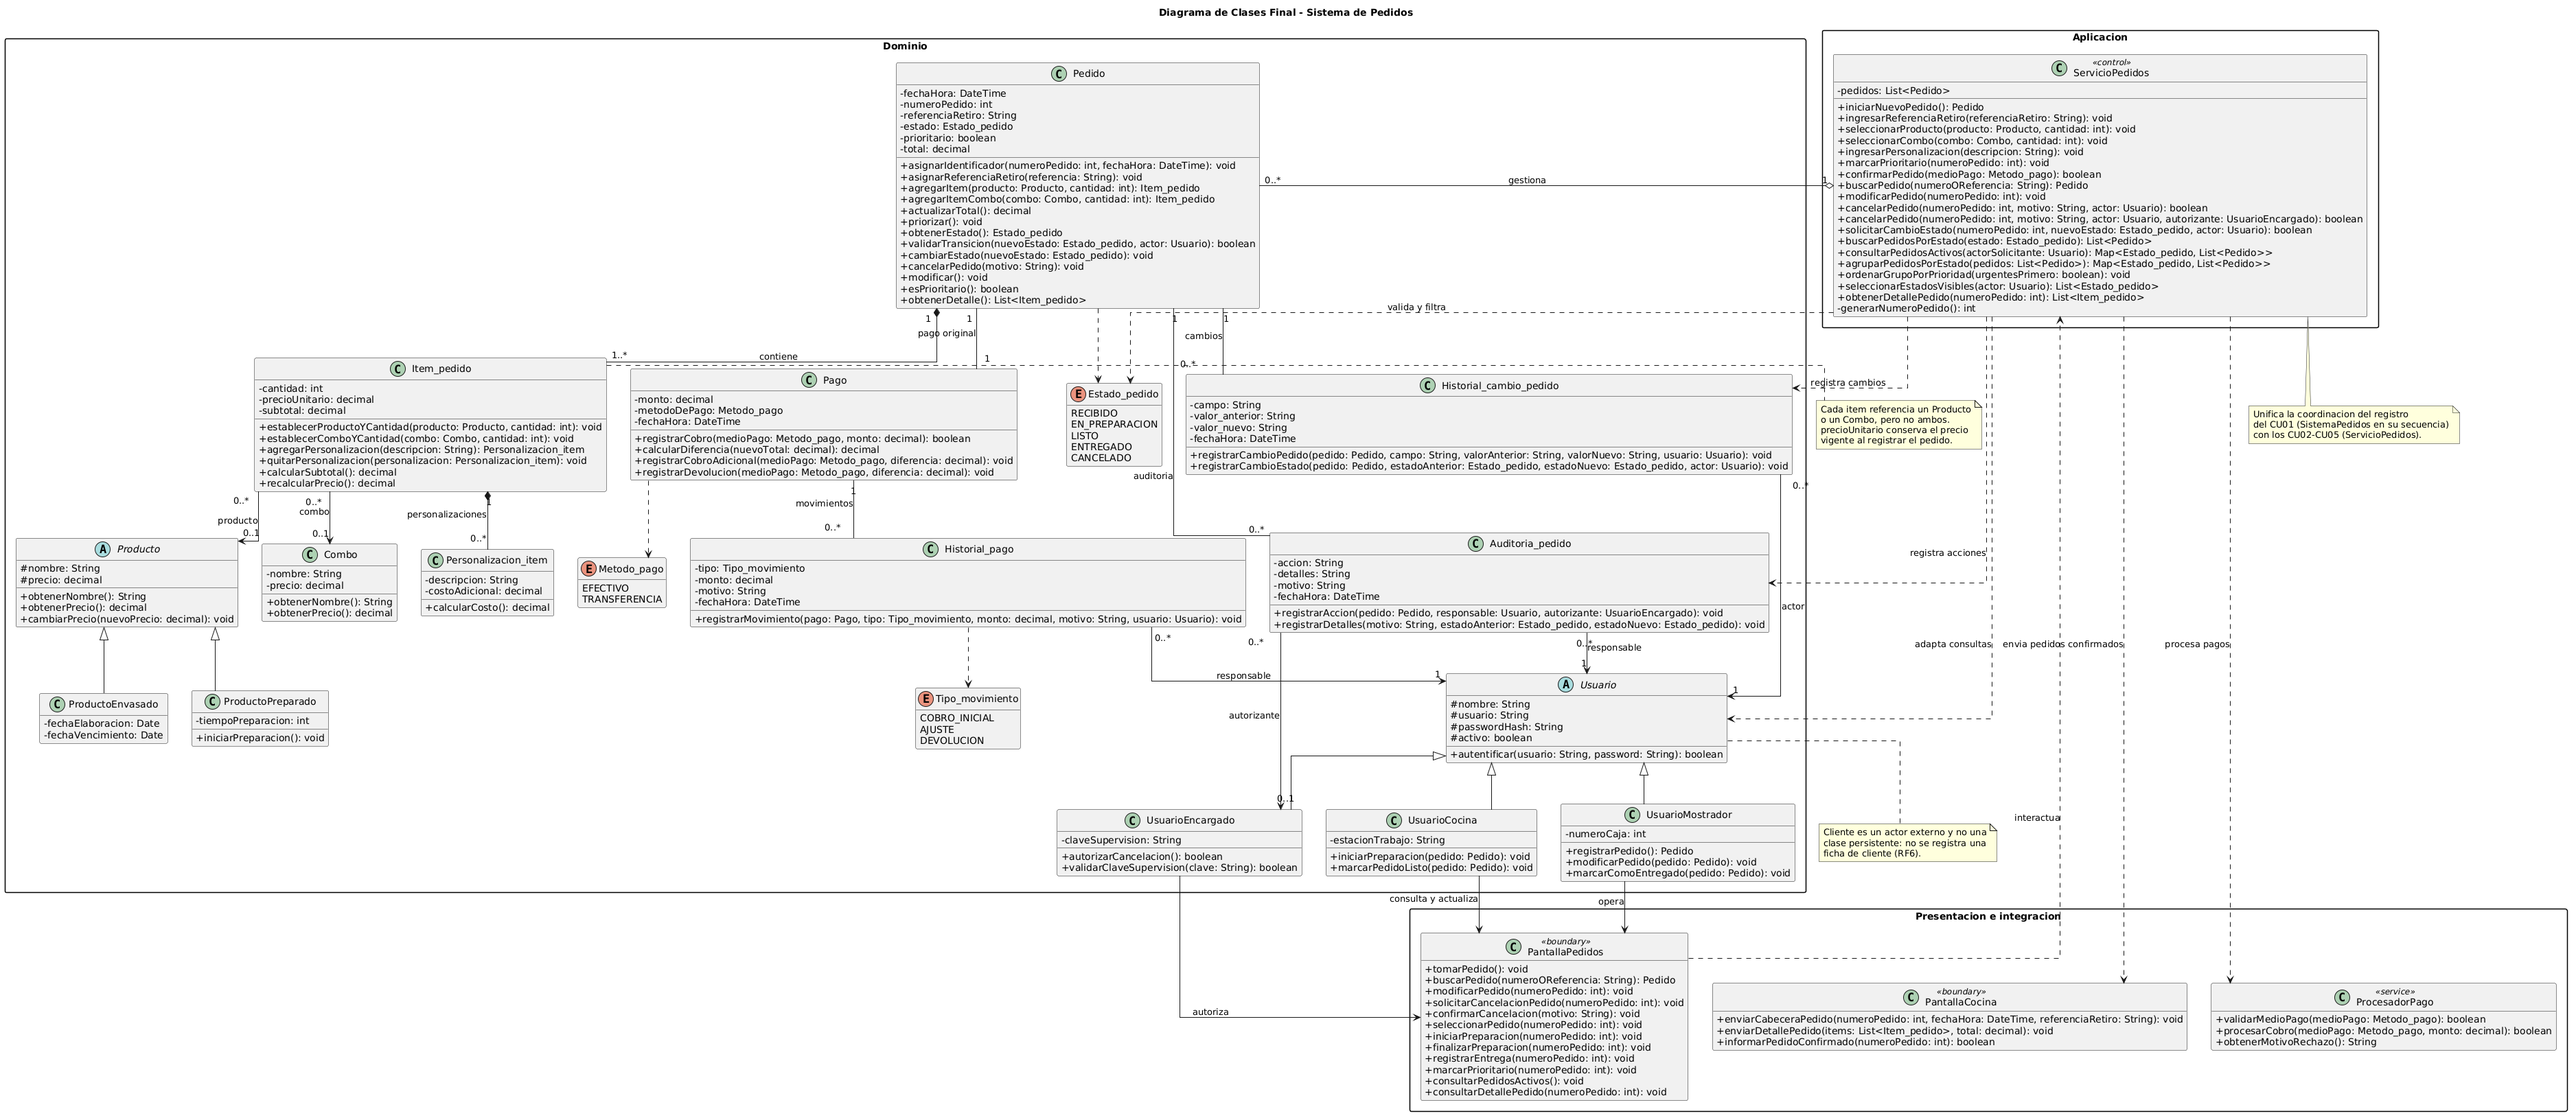
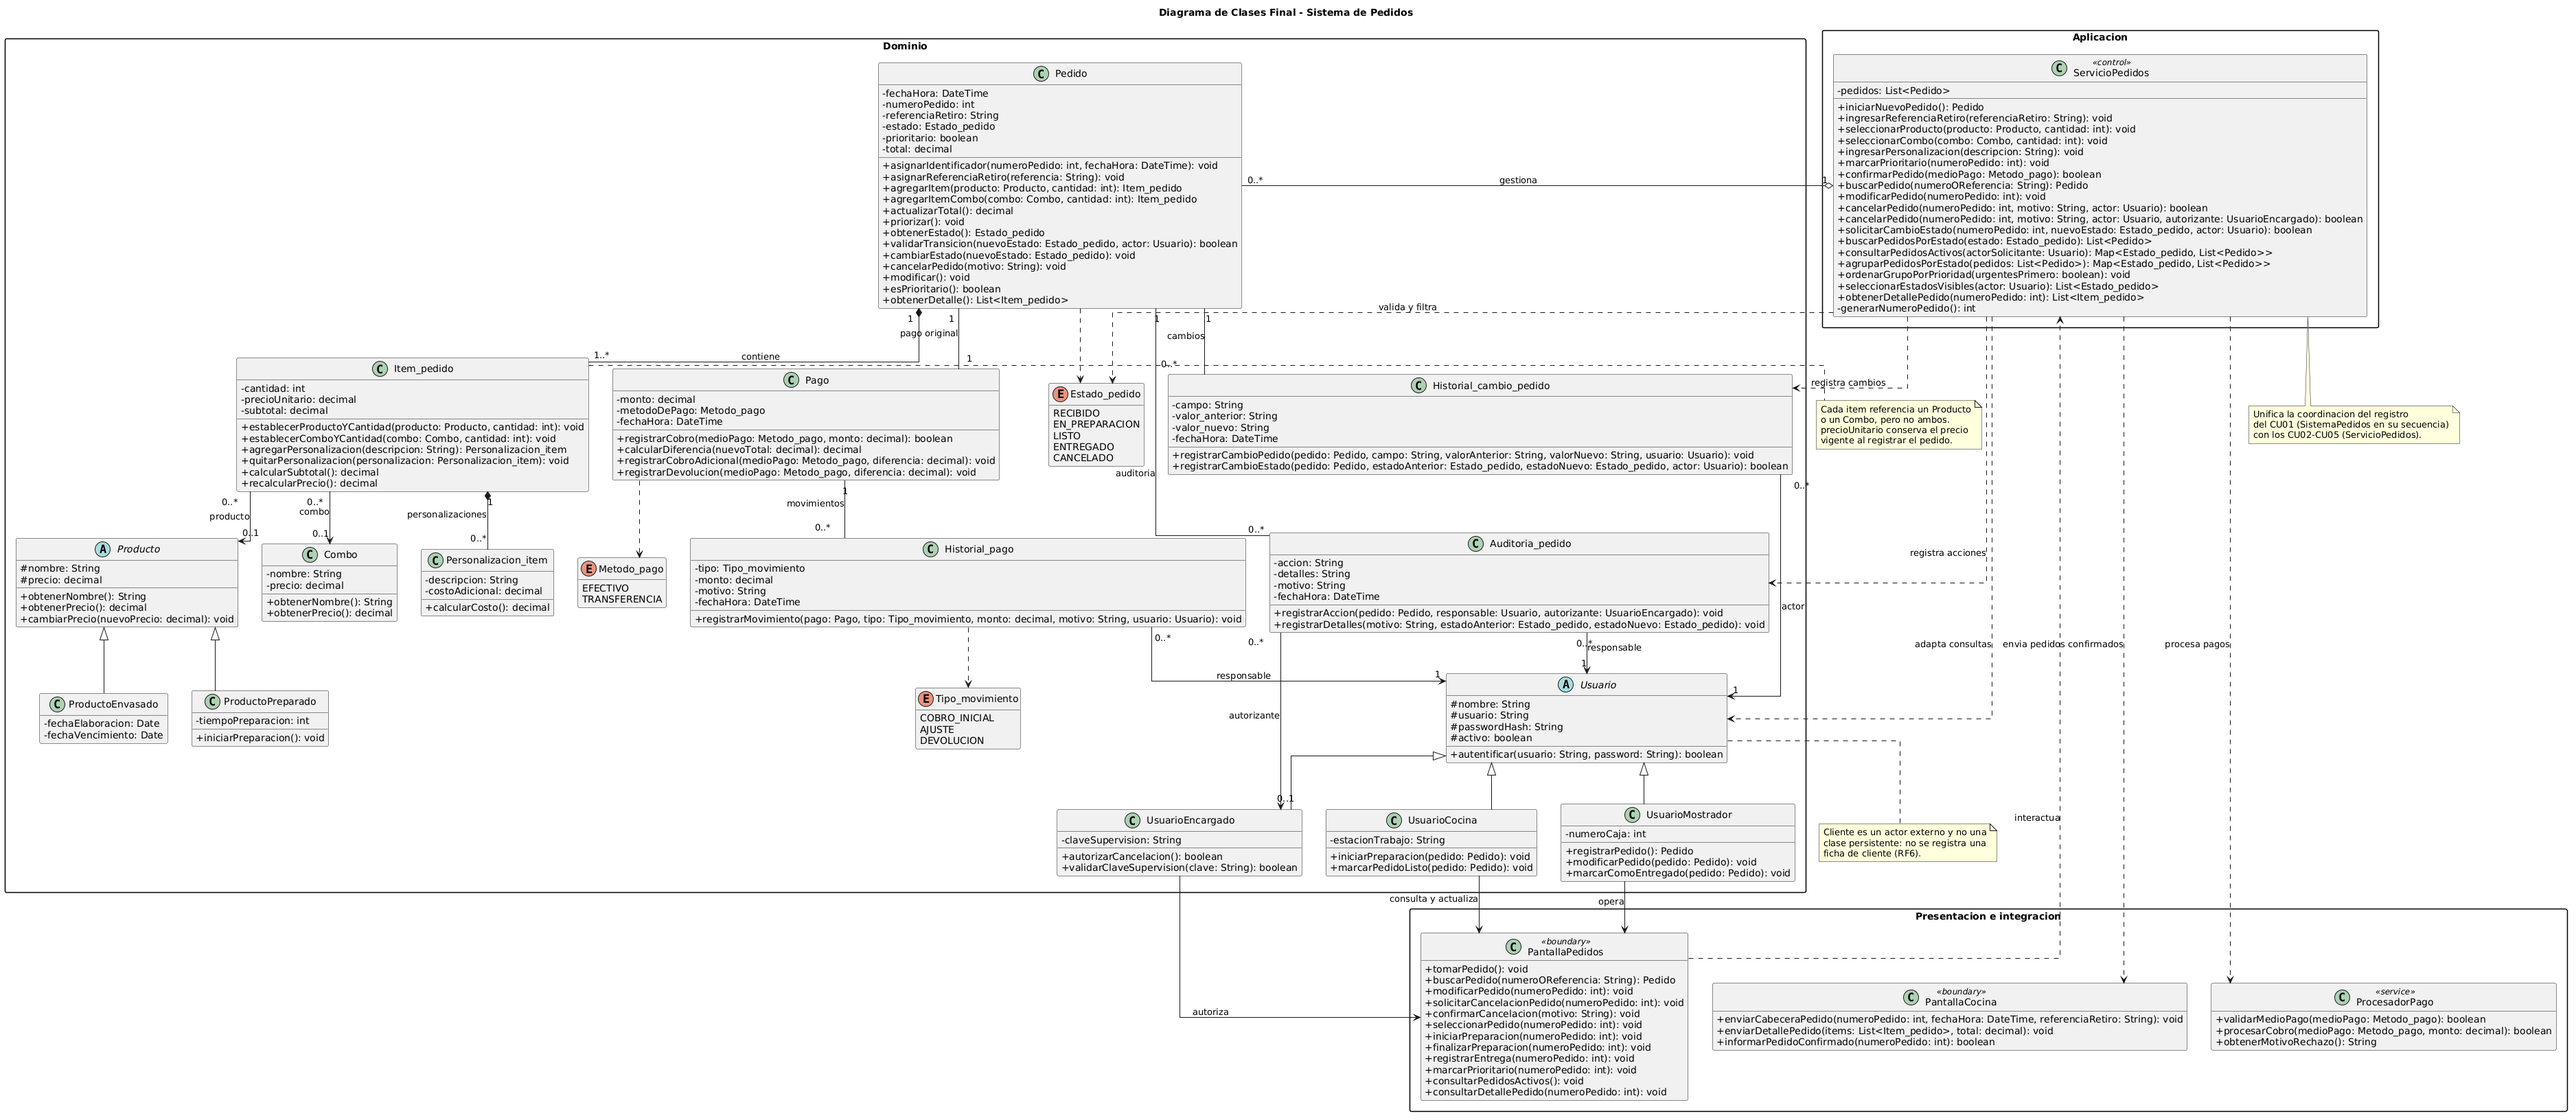
docs: agrego los fix de A4 al changelog y ajusto registrarCambioEstado en el diagrama final

Changed region(s): [[0.0936, 0.3125, 0.686, 0.4375], [0.343, 0.0625, 0.4678, 0.3125]]

diff --git a/changelog.md b/changelog.md
@@ -49,6 +49,20 @@ Este archivo se actualiza con cada Pull Request para registrar avances y correcc
 - [backport/release-actividad-obligatoria-3] Backport de las correcciones aprobadas de la Actividad Obligatoria N°3 hacia develop
   PR: [#225](https://github.com/eloeyhe/SistemaPedidos/pull/225) - @santimarM (Coordinador de Repositorio + Analista Funcional CU1)
 
+### Fixed
+
+- [fix/unificar-nombre-servicio-pedidos] Unifico el nombre de la clase de servicio a ServicioPedidos en el diagrama de clases, la secuencia y el anexo del CU1
+  Issue: [#247](https://github.com/eloeyhe/SistemaPedidos/issues/247)
+  PR: [#257](https://github.com/eloeyhe/SistemaPedidos/pull/257) - @Leandro2107 (Arquitecto de Dominio)
+
+- [fix/unificar-historial-cambio-pedido] Unifico la firma de registrarCambioEstado y registrarCambioPedido entre CU2 y CU4
+  Issue: [#248](https://github.com/eloeyhe/SistemaPedidos/issues/248)
+  PR: [#258](https://github.com/eloeyhe/SistemaPedidos/pull/258) - @Leandro2107 (Arquitecto de Dominio)
+
+- [fix/decidir-clase-cliente] Aclaro que Cliente no se modela como clase en el CU1 según el RF6
+  Issue: [#249](https://github.com/eloeyhe/SistemaPedidos/issues/249)
+  PR: [#259](https://github.com/eloeyhe/SistemaPedidos/pull/259) - @Leandro2107 (Arquitecto de Dominio)
+
 ## [Release Actividad Obligatoria N°3] - 2026-10-22
 
 ### Added
